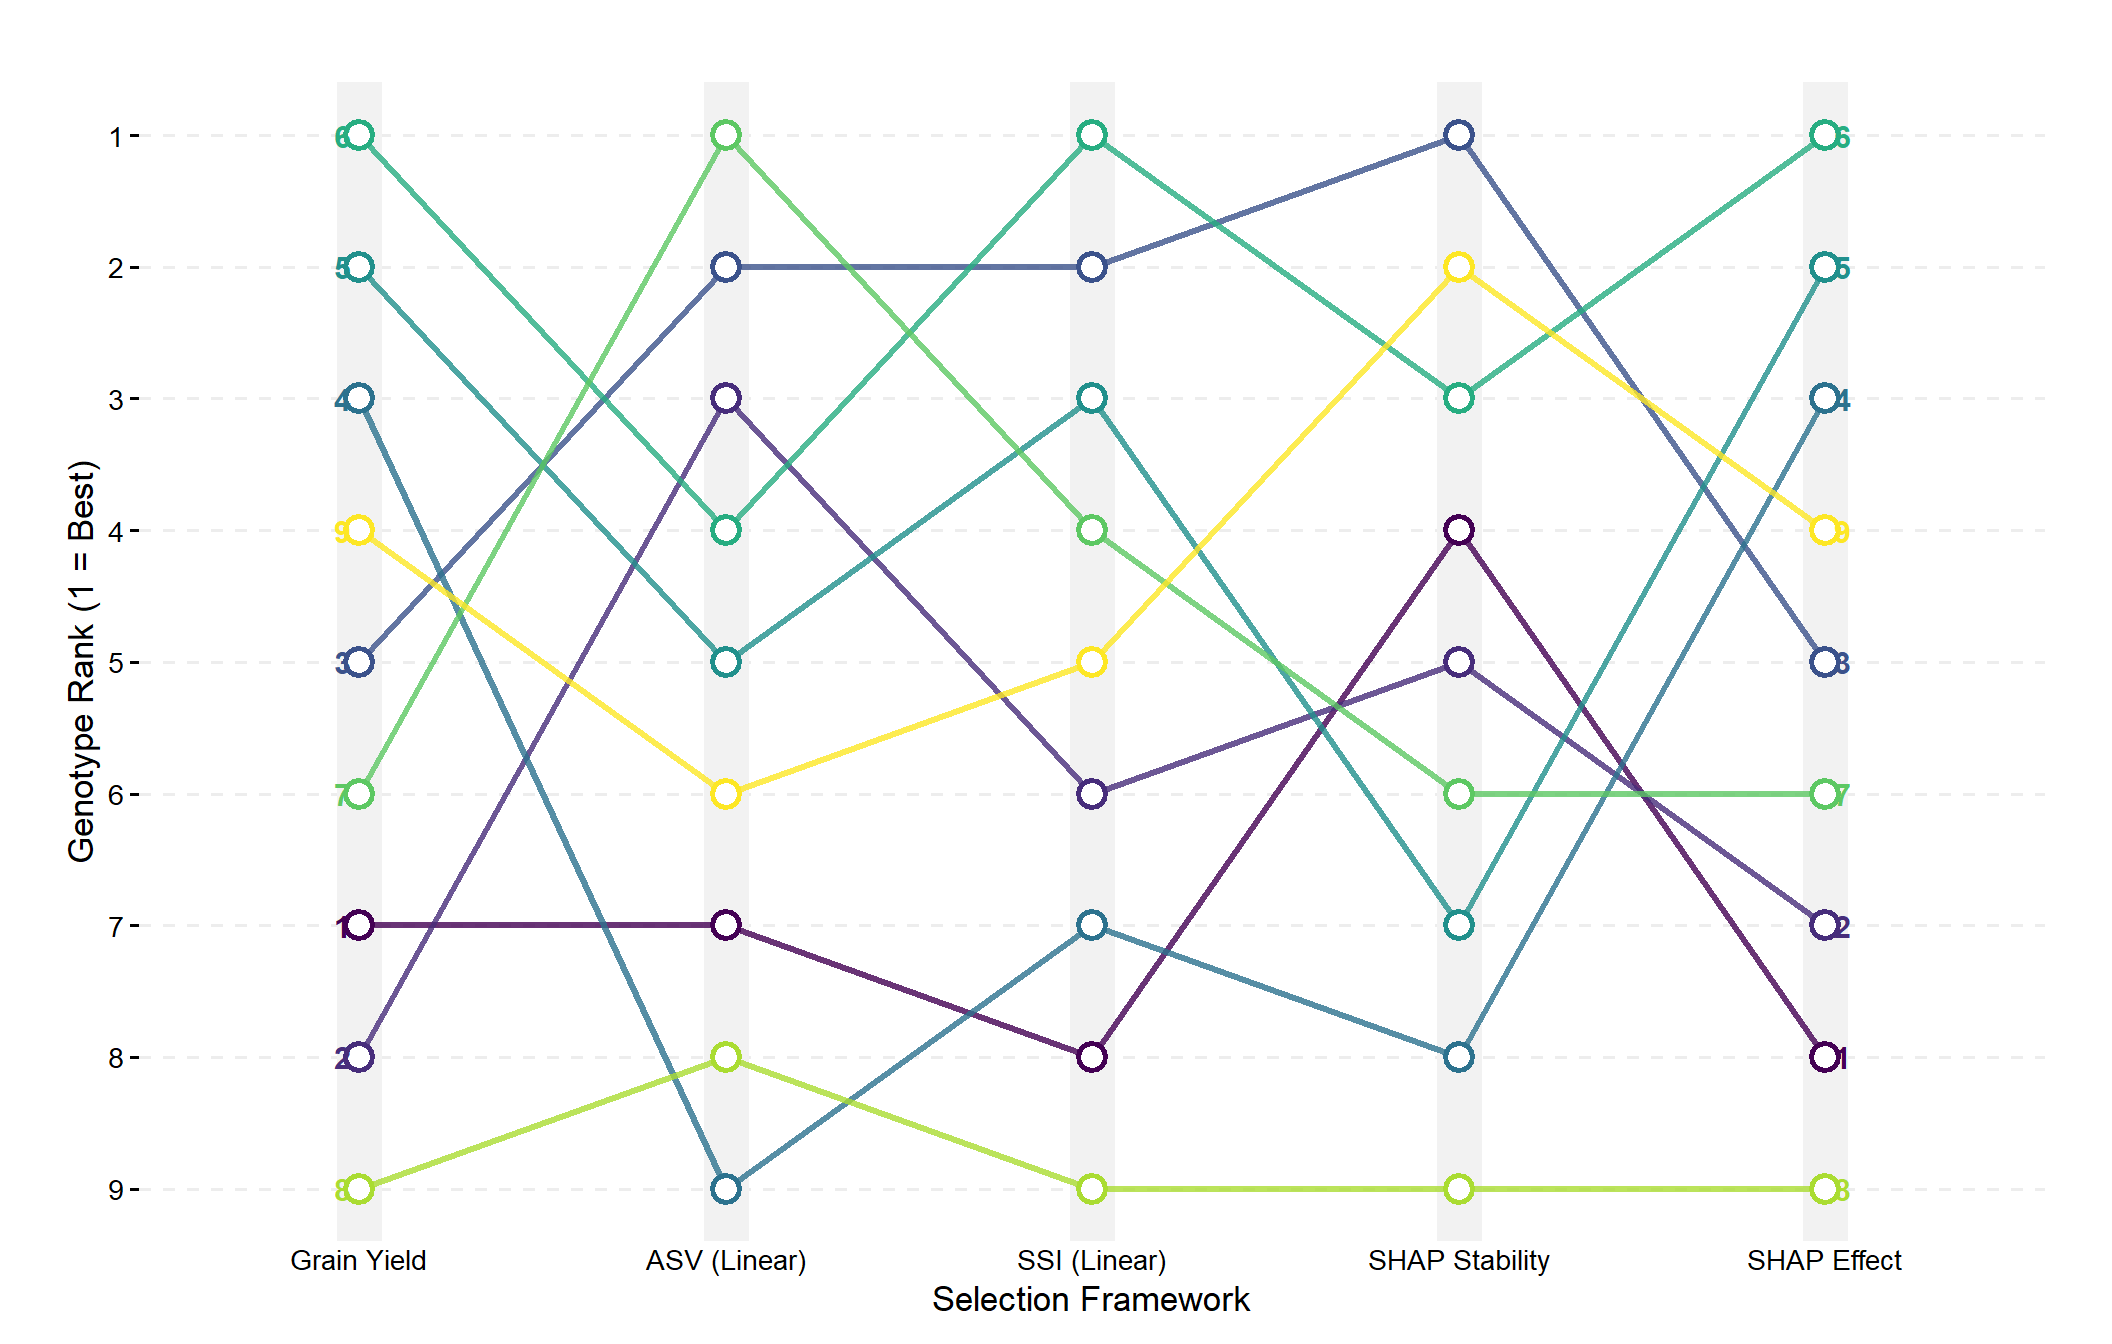
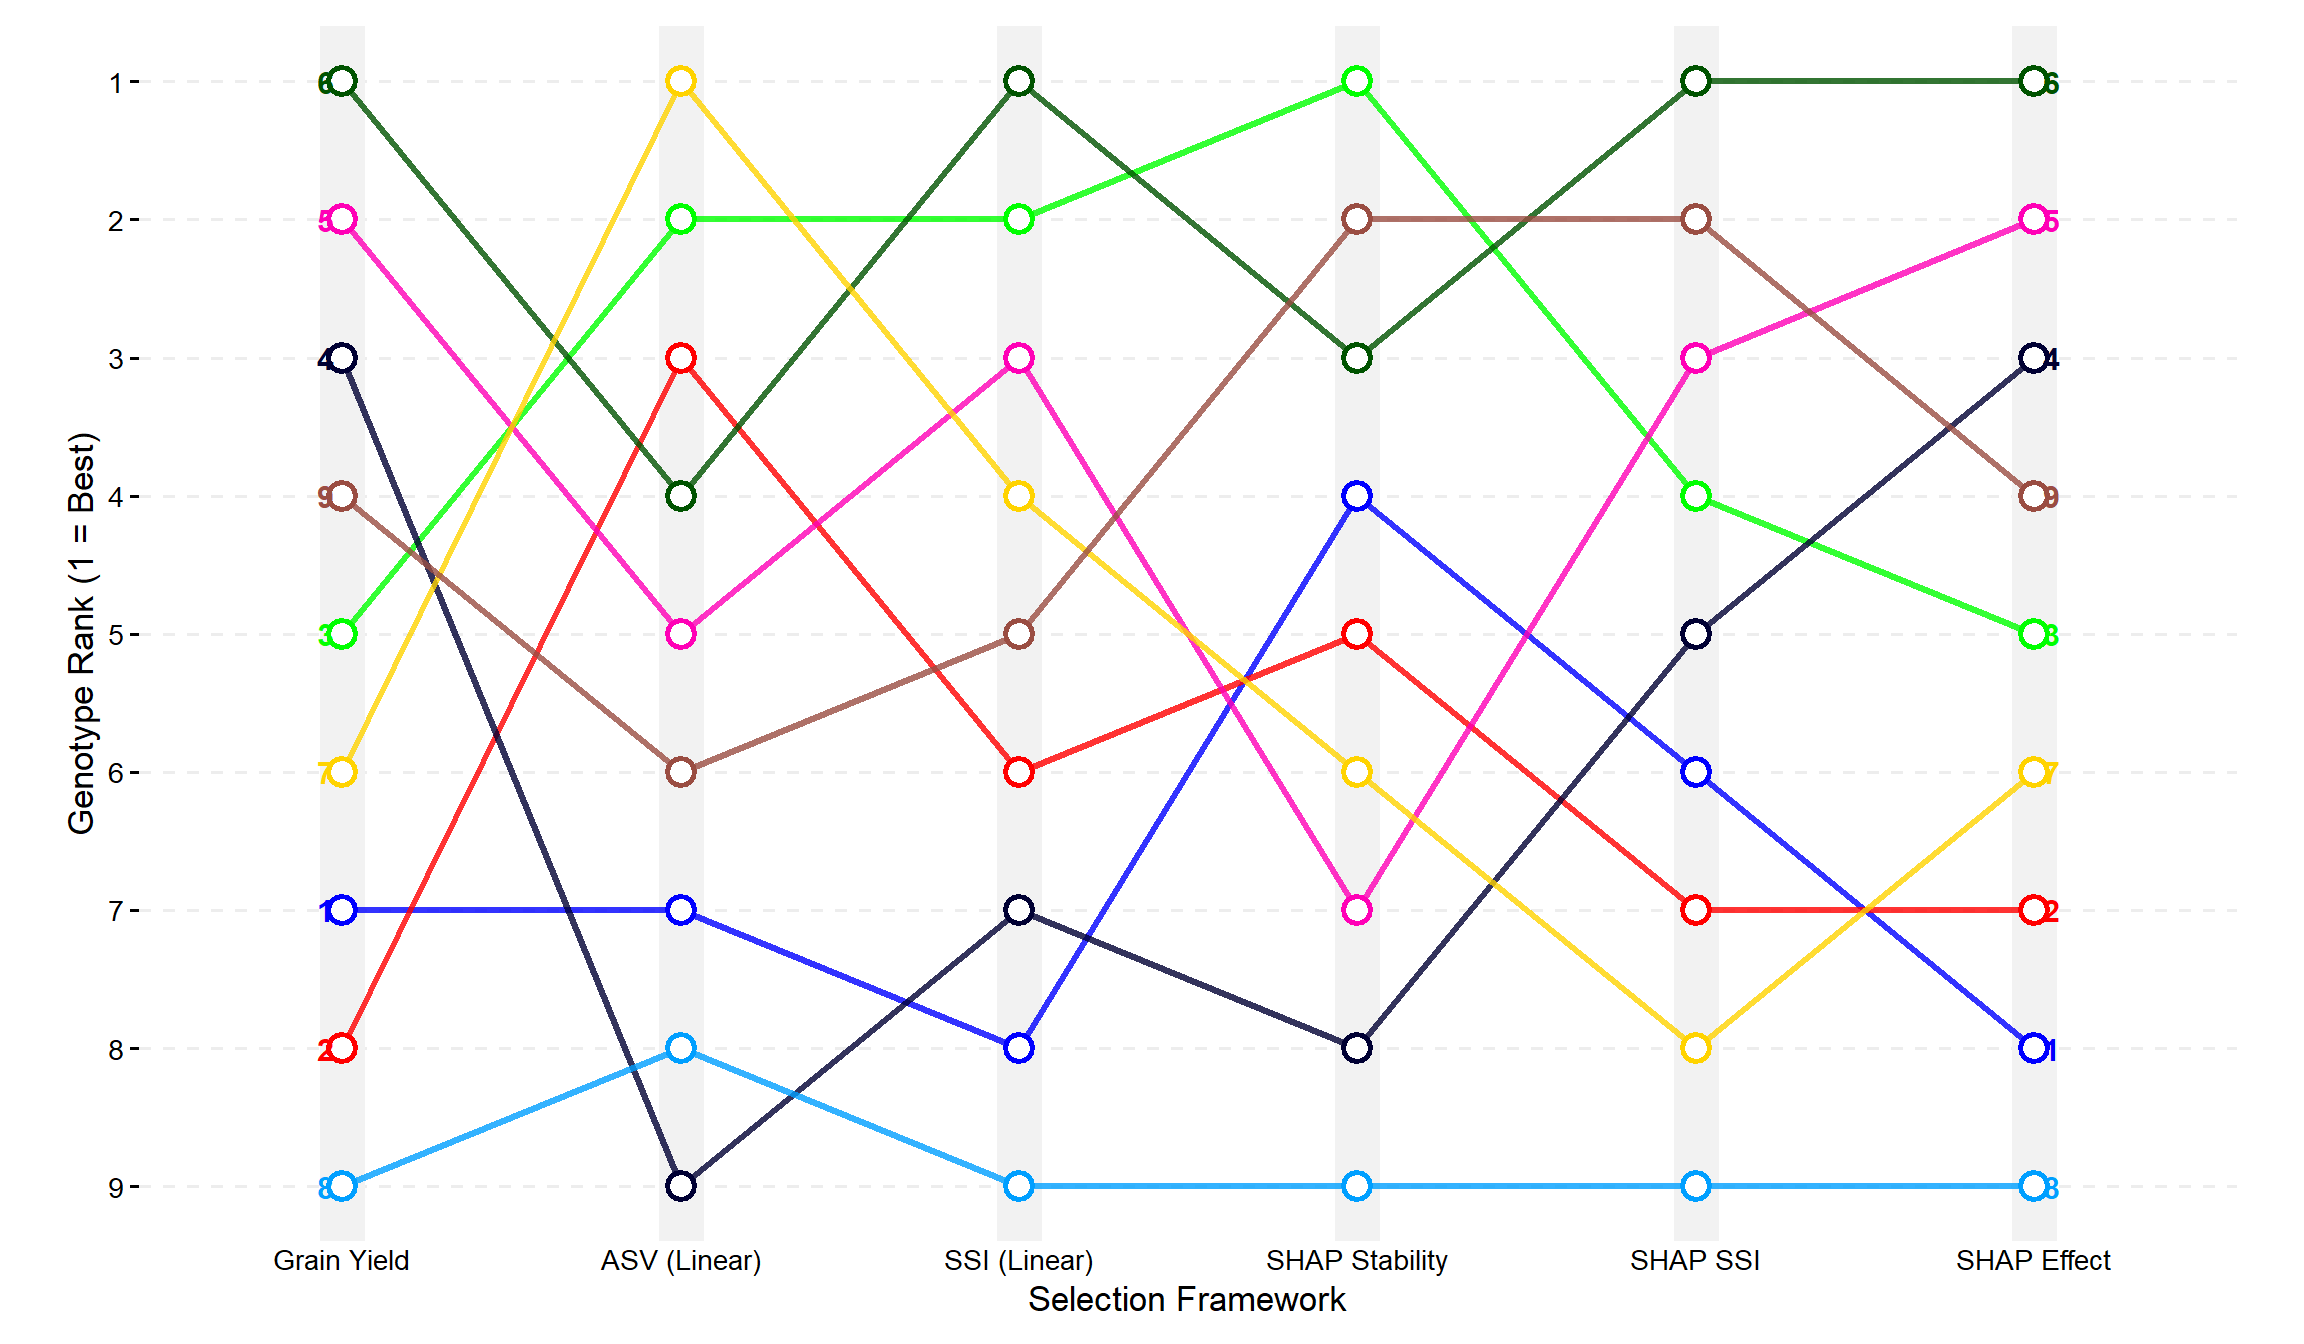
Build site.

diff --git a/docs/analysis.html b/docs/analysis.html
@@ -528,15 +528,15 @@ project makes it easier to run your code on other machines.</p>
 <div class="panel panel-default">
 <div class="panel-heading">
 <p class="panel-title">
-<a data-toggle="collapse" data-parent="#workflowr-checks" href="#strongRepositoryversionstrongahrefhttpsgithubcomWevertonGomesCostanonlineargeinteractionshaptree531f92848de904563cd6fecdf574687761736552targetblank531f928a">
+<a data-toggle="collapse" data-parent="#workflowr-checks" href="#strongRepositoryversionstrongahrefhttpsgithubcomWevertonGomesCostanonlineargeinteractionshaptree42404fc557b8d958dc22670496aa4f335644d8f0targetblank42404fca">
 <span class="glyphicon glyphicon-ok text-success"
 aria-hidden="true"></span> <strong>Repository version:</strong>
-<a href="https://github.com/WevertonGomesCosta/nonlinear-ge-interaction-shap/tree/531f92848de904563cd6fecdf574687761736552" target="_blank">531f928</a>
+<a href="https://github.com/WevertonGomesCosta/nonlinear-ge-interaction-shap/tree/42404fc557b8d958dc22670496aa4f335644d8f0" target="_blank">42404fc</a>
 </a>
 </p>
 </div>
 <div
[2 lines of base64/hex data omitted]
 class="panel-collapse collapse">
 <div class="panel-body">
 <p>
@@ -546,7 +546,7 @@ reproducibility.
 </p>
 <p>
 The results in this page were generated with repository version
-<a href="https://github.com/WevertonGomesCosta/nonlinear-ge-interaction-shap/tree/531f92848de904563cd6fecdf574687761736552" target="_blank">531f928</a>.
+<a href="https://github.com/WevertonGomesCosta/nonlinear-ge-interaction-shap/tree/42404fc557b8d958dc22670496aa4f335644d8f0" target="_blank">42404fc</a>.
 See the <em>Past versions</em> tab to see a history of the changes made
 to the R Markdown and HTML files.
 </p>
@@ -611,6 +611,40 @@ Message
 </tr>
 </thead>
 <tbody>
+<tr>
+<td>
+Rmd
+</td>
+<td>
+<a href="https://github.com/WevertonGomesCosta/nonlinear-ge-interaction-shap/blob/42404fc557b8d958dc22670496aa4f335644d8f0/analysis/analysis.Rmd" target="_blank">42404fc</a>
+</td>
+<td>
+WevertonGomesCosta
+</td>
+<td>
[phone redacted]
+</td>
+<td>
+Update ranking dynamics and correlations for SHAP SSI
+</td>
+</tr>
+<tr>
+<td>
+html
+</td>
+<td>
+<a href="https://rawcdn.githack.com/WevertonGomesCosta/nonlinear-ge-interaction-shap/e34e85f20691f92d6cf0057e5040df4045dcf2ef/docs/analysis.html" target="_blank">e34e85f</a>
+</td>
+<td>
+WevertonGomesCosta
+</td>
+<td>
[phone redacted]
+</td>
+<td>
+Build site.
+</td>
+</tr>
 <tr>
 <td>
 Rmd
@@ -2250,6 +2284,7 @@ preferred position under every criterion.</p>
       Rank_ASV,
       Rank_SSI,
       Rank_SHAP_Stb,
+      Rank_SHAP_SSI,
       Rank_SHAP_Eff
     ),
     names_to = &quot;Metodologia&quot;,
@@ -2263,6 +2298,7 @@ preferred position under every criterion.</p>
         &quot;Rank_ASV&quot;,
         &quot;Rank_SSI&quot;,
         &quot;Rank_SHAP_Stb&quot;,
+        &quot;Rank_SHAP_SSI&quot;,
         &quot;Rank_SHAP_Eff&quot;
       ),
       labels = c(
@@ -2270,11 +2306,12 @@ preferred position under every criterion.</p>
         &quot;ASV (Linear)&quot;,
         &quot;SSI (Linear)&quot;,
         &quot;SHAP Stability&quot;,
+        &quot;SHAP SSI&quot;,
         &quot;SHAP Effect&quot;
       )
     )
   )</code></pre>
-<pre class="r"><code>ggplot(
+<pre class="r"><code>figure_3_bump &lt;- ggplot(
   dados_long,
   aes(
     x = Metodologia,
@@ -2313,8 +2350,10 @@ preferred position under every criterion.</p>
     fontface = &quot;bold&quot;,
     size = 4
   ) +
-  scale_color_viridis_d(
-    option = &quot;viridis&quot;
+  scale_color_manual(
+    values = as.vector(
+      pals::glasbey(9)
+    )
   ) +
   scale_y_reverse(
     breaks = 1:9
@@ -2324,8 +2363,7 @@ preferred position under every criterion.</p>
   ) +
   labs(
     x = &quot;Selection Framework&quot;,
-    y = &quot;Genotype Rank (1 = Best)&quot;,
-    title = &quot; &quot;
+    y = &quot;Genotype Rank (1 = Best)&quot;
   ) +
   theme(
     legend.position = &quot;none&quot;,
@@ -2337,8 +2375,7 @@ preferred position under every criterion.</p>
     ),
     panel.grid.major.x = element_line(
       color = &quot;gray95&quot;,
-      linewidth = 8,
-      alpha = 0.4
+      linewidth = 8
     ),
     plot.margin = ggplot2::margin(
       t = 10,
@@ -2346,7 +2383,9 @@ preferred position under every criterion.</p>
       b = 10,
       l = 25
     )
-  )</code></pre>
+  )
+
+print(figure_3_bump)</code></pre>
 <p><img src="figure/analysis.Rmd/rank-dynamics-plot-1.png" width="100%" style="display: block; margin: auto;" /></p>
 <p>
 <button type="button" class="btn btn-default btn-xs btn-workflowr btn-workflowr-fig" data-toggle="collapse" data-target="#fig-rank-dynamics-plot-1">
@@ -2553,12 +2592,13 @@ WevertonGomesCosta
 </div>
 <div id="spearman-rank-correlation" class="section level1">
 <h1>Spearman rank correlation</h1>
-<p>Spearman rank correlations are calculated among the five
+<p>Spearman rank correlations are calculated among the six
 genotype-selection criteria. Positive correlations indicate that two
 criteria tend to assign similar positions to the genotypes, whereas
 negative correlations indicate opposing ranking patterns.</p>
-<p>The comparison includes grain yield, AMMI stability, simultaneous
-selection, mean SHAP effect, and SHAP stability.</p>
+<p>The comparison includes grain yield, AMMI stability, classical
+simultaneous selection, SHAP stability, SHAP-based simultaneous
+selection, and mean SHAP effect.</p>
 <div id="correlation-matrix" class="section level2">
 <h2>Correlation matrix</h2>
 <pre class="r"><code>colunas_rank &lt;- dados_resultado %&gt;%
@@ -2566,8 +2606,9 @@ selection, mean SHAP effect, and SHAP stability.</p>
     Rank_Prod,
     Rank_ASV,
     Rank_SSI,
-    Rank_SHAP_Eff,
-    Rank_SHAP_Stb
+    Rank_SHAP_Stb,
+    Rank_SHAP_SSI,
+    Rank_SHAP_Eff
   ) %&gt;%
   as.data.frame()
 
@@ -2575,8 +2616,9 @@ colnames(colunas_rank) &lt;- c(
   &quot;Yield&quot;,
   &quot;ASV (Linear)&quot;,
   &quot;SSI (Linear)&quot;,
-  &quot;SHAP Effect&quot;,
-  &quot;SHAP Stability&quot;
+  &quot;SHAP Stability&quot;,
+  &quot;SHAP SSI&quot;,
+  &quot;SHAP Effect&quot;
 )
 
 matriz_corr &lt;- cor(
@@ -2588,31 +2630,49 @@ round(
   matriz_corr,
   2
 )</code></pre>
-<pre><code>               Yield ASV (Linear) SSI (Linear) SHAP Effect SHAP Stability
-Yield           1.00         0.02         0.70        0.98           0.23
-ASV (Linear)    0.02         1.00         0.68        0.08           0.48
-SSI (Linear)    0.70         0.68         1.00        0.73           0.57
-SHAP Effect     0.98         0.08         0.73        1.00           0.22
-SHAP Stability  0.23         0.48         0.57        0.22           1.00</code></pre>
+<pre><code>               Yield ASV (Linear) SSI (Linear) SHAP Stability SHAP SSI
+Yield           1.00         0.02         0.70           0.23     0.87
+ASV (Linear)    0.02         1.00         0.68           0.48     0.03
+SSI (Linear)    0.70         0.68         1.00           0.57     0.68
+SHAP Stability  0.23         0.48         0.57           1.00     0.58
+SHAP SSI        0.87         0.03         0.68           0.58     1.00
+SHAP Effect     0.98         0.08         0.73           0.22     0.85
+               SHAP Effect
+Yield                 0.98
+ASV (Linear)          0.08
+SSI (Linear)          0.73
+SHAP Stability        0.22
+SHAP SSI              0.85
+SHAP Effect           1.00</code></pre>
 </div>
 <div id="graphical-representation" class="section level2">
 <h2>Graphical representation</h2>
 <p>The upper triangular correlation matrix represents the direction and
 magnitude of the Spearman associations. The numerical coefficients are
 displayed inside the corresponding cells.</p>
-<pre class="r"><code>cores_viridis &lt;- viridisLite::viridis(
-  200
-)
+<pre class="r"><code>rampa_customizada_artigo &lt;- colorRampPalette(
+  c(
+    &quot;#B2182B&quot;,
+    &quot;#E08214&quot;,
+    &quot;#FDB863&quot;,
+    &quot;#F7F7F7&quot;,
+    &quot;#B2ABD2&quot;,
+    &quot;#8073AC&quot;,
+    &quot;#542788&quot;
+  )
+)(200)
 
 corrplot::corrplot(
   matriz_corr,
   method = &quot;color&quot;,
   type = &quot;upper&quot;,
-  col = cores_viridis,
+  col = rampa_customizada_artigo,
   addCoef.col = &quot;black&quot;,
-  number.cex = 0.9,
+  number.cex = 1.25,
   tl.col = &quot;black&quot;,
   tl.srt = 45,
+  tl.cex = 1.25,
+  cl.cex = 1.1,
   diag = FALSE,
   tl.pos = &quot;td&quot;,
   mar = c(